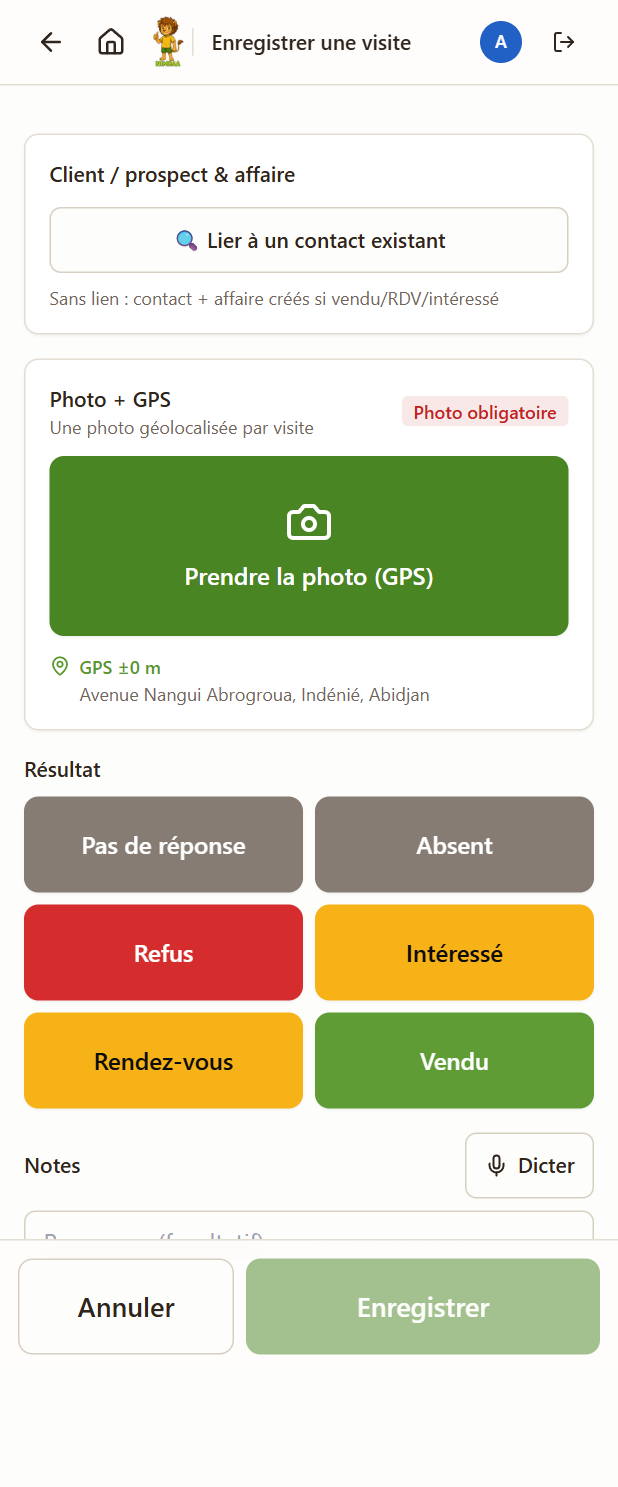
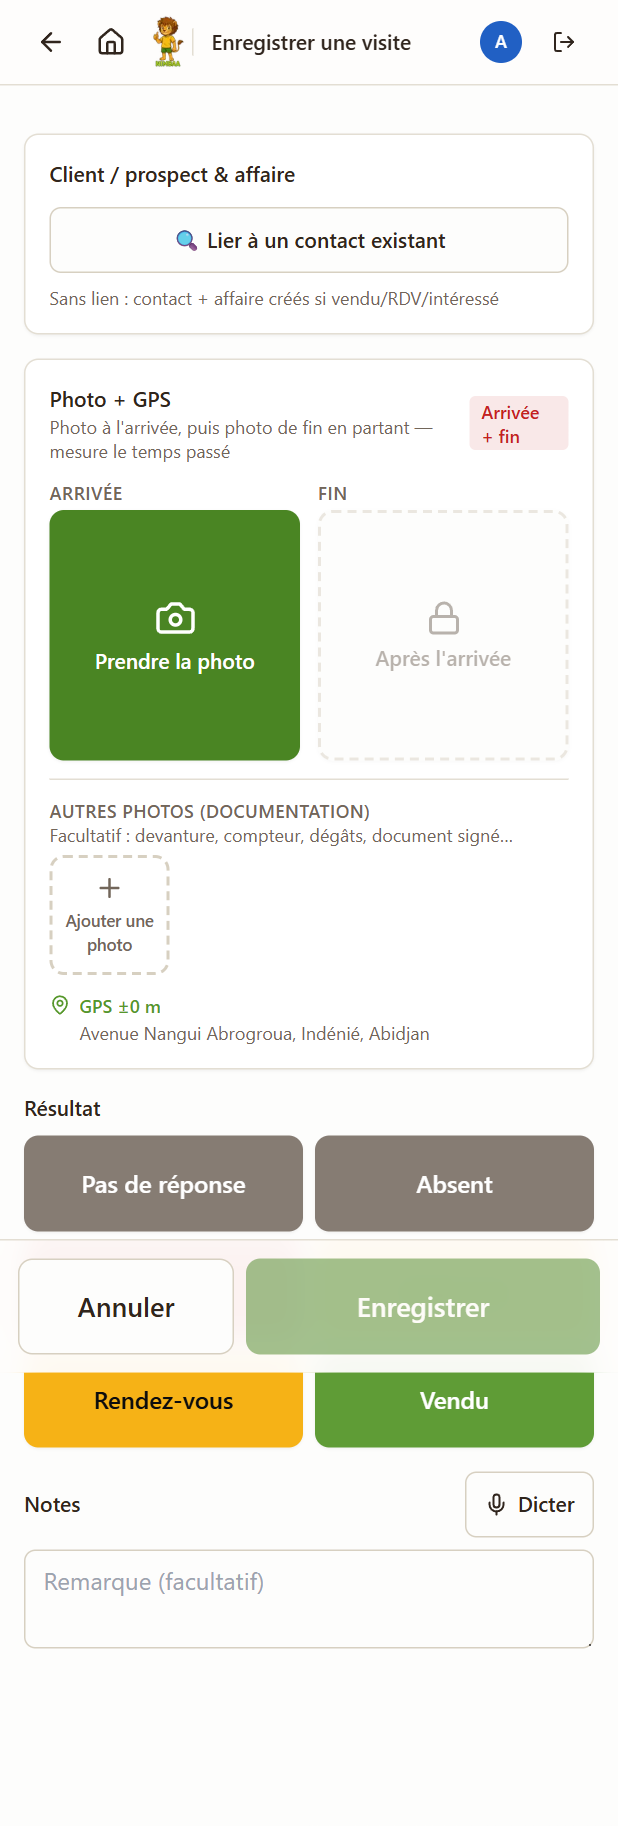
Manual: document the photo pair, time on site and anti-fraud controls
Section 4 now walks the visit through the three photo zones (arrival, end,
documentation), explains that the end slot stays locked until arrival exists
and that the pair is what measures time with the customer. Section 7 does
the same for installations, per site trip, and notes that the completion
date comes from the end photo. Section 11 gains a "Contrales anti-fraude"
part: the three duration averages, the per-person time table, and a table of
the six automatic checks with a caution to treat them as signals worth a
question rather than proof.

Screenshots of the visit and installation forms retaken; controls page shot
added.

diff --git a/public/manuel.html b/public/manuel.html
@@ -321,7 +321,7 @@
   <div class="kicker">Guide de l'équipe terrain · Abidjan</div>
   <h1>Manuel Nimbaa CRM</h1>
   <p class="sub">Comment utiliser l'application au quotidien : visites porte-à-porte, clients et affaires, installations, statistiques, assistant IA et commissions — pour les commerciaux, techniciens, managers et administrateurs.</p>
-  <p class="meta">Application : <code>nimbaa-crm.vercel.app</code> · Version du 17 août 2026 · Interface disponible en Français et Anglais</p>
+  <p class="meta">Application : <code>nimbaa-crm.vercel.app</code> · Version du 18 août 2026 · Interface disponible en Français et Anglais</p>
 
   <nav class="toc" aria-label="Sommaire">
     <a href="#demarrage"><span class="n">1</span>Démarrage &amp; connexion</a>
@@ -334,7 +334,7 @@
     <a href="#classement"><span class="n">8</span>Classement &amp; badges</a>
     <a href="#stats"><span class="n">9</span>Statistiques &amp; mes commissions</a>
     <a href="#assistant"><span class="n">10</span>Assistant Nimbaa (IA)</a>
-    <a href="#manager"><span class="n">11</span>Espace manager</a>
+    <a href="#manager"><span class="n">11</span>Espace manager &amp; contrôles</a>
     <a href="#commissions"><span class="n">12</span>Commissions : règles &amp; paiement</a>
     <a href="#admin"><span class="n">13</span>Administration</a>
     <a href="#horsligne"><span class="n">14</span>Mode hors ligne</a>
@@ -413,15 +413,31 @@
     <div class="roles"><span class="chip com">Commercial</span></div>
     <p>C'est le geste central du porte-à-porte. Depuis l'accueil, touchez <span class="btn-ref">Enregistrer une visite</span> :</p>
     <ol>
-      <li><strong>Photo + GPS.</strong> Touchez <span class="btn-ref">Prendre la photo (GPS)</span> — une photo géolocalisée est <strong>obligatoire</strong> pour chaque visite. L'adresse détectée s'affiche sous le bouton.</li>
+      <li><strong>Photo d'arrivée.</strong> En arrivant, touchez la case verte <span class="btn-ref">ARRIVÉE</span>. La photo est horodatée et géolocalisée automatiquement ; l'adresse détectée s'affiche plus bas.</li>
       <li><strong>Résultat.</strong> Choisissez l'issue de la visite : <em>Pas de réponse</em>, <em>Absent</em>, <em>Refus</em>, <em>Intéressé</em>, <em>Rendez-vous</em> ou <em>Vendu</em>.</li>
       <li><strong>Contact (optionnel).</strong> <span class="btn-ref">Lier à un contact existant</span> rattache la visite à une fiche déjà créée. Sans lien, si le résultat est <em>Vendu</em>, <em>Rendez-vous</em> ou <em>Intéressé</em>, l'application crée automatiquement le contact et l'affaire.</li>
       <li><strong>Notes.</strong> Tapez ou touchez <span class="btn-ref">🎤 Dicter</span> pour dicter vos notes à la voix.</li>
+      <li><strong>Photo de fin.</strong> Au moment de repartir, touchez la case orange <span class="btn-ref">FIN</span>. C'est elle qui referme la visite.</li>
       <li><span class="btn-ref">Enregistrer</span>.</li>
     </ol>
+
+    <h3>Les trois emplacements photo</h3>
+    <p>La carte <strong>Photo + GPS</strong> présente trois zones distinctes, pour que rien ne soit ambigu :</p>
+    <div class="tablewrap"><table>
+      <tr><th>Zone</th><th>Quand</th><th>Obligatoire ?</th></tr>
+      <tr><td><strong>ARRIVÉE</strong></td><td>En arrivant devant le client</td><td>Oui</td></tr>
+      <tr><td><strong>FIN</strong></td><td>Au moment de repartir</td><td>Oui</td></tr>
+      <tr><td><strong>Autres photos</strong></td><td>À tout moment — devanture, compteur, dégâts, document signé…</td><td>Non</td></tr>
+    </table></div>
+    <p>La case <strong>FIN</strong> reste <strong>verrouillée</strong> (cadenas) tant que la photo d'arrivée n'est pas prise : on ne peut pas repartir avant d'être arrivé. La pastille en haut à droite indique où vous en êtes : <em>Arrivée + fin</em> → <em>Photo de fin manquante</em> → <em>Complet</em>. Tant que la paire n'est pas complète, le bouton <span class="btn-ref">Enregistrer</span> reste inactif.</p>
+
+    <div class="callout tip">
+      <span class="lbl">Pourquoi deux photos</span>
+      <p>L'écart entre les deux photos mesure le <strong>temps réellement passé chez le client</strong>. C'est ce qui permet de valoriser le travail de terrain — et ce qui rend les chiffres incontestables. Une seule photo ne prouve qu'un instant ; la paire prouve une présence.</p>
+    </div>
     <div class="callout tip">
       <span class="lbl">Pas de réseau ? Continuez.</span>
-      <p>Sans connexion, la visite est <strong>mise en file d'attente sur le téléphone</strong> et envoyée automatiquement dès le retour du réseau. Voir la section 14.</p>
+      <p>Sans connexion, la visite (les deux photos comprises) est <strong>mise en file d'attente sur le téléphone</strong> et envoyée automatiquement dès le retour du réseau. Voir la section 14.</p>
     </div>
     <div class="callout warn">
       <span class="lbl">Portes à ne pas frapper</span>
@@ -429,8 +445,8 @@
     </div>
   </div>
   <figure class="phone">
-    <img src="/manuel/03-visit-new.png" alt="Formulaire de visite : photo GPS obligatoire, six boutons de résultat, notes avec dictée" />
-    <figcaption>La visite : photo géolocalisée, résultat en un geste, dictée des notes.</figcaption>
+    <img src="/manuel/03-visit-new.png" alt="Formulaire de visite : zones ARRIVÉE et FIN côte à côte, FIN verrouillée, zone Autres photos, boutons de résultat" />
+    <figcaption>Trois zones photo : <strong>Arrivée</strong> (verte, à prendre en premier), <strong>Fin</strong> (verrouillée jusque-là) et <strong>Autres photos</strong> pour la documentation.</figcaption>
   </figure>
 </section>
 
@@ -526,20 +542,22 @@
     <div class="roles"><span class="chip tec">Technicien</span><span class="chip man">Manager</span></div>
     <p>Quand une vente est conclue, une installation est planifiée chez le client. Le technicien utilise <span class="btn-ref">Enregistrer une installation</span> :</p>
     <ol>
-      <li>Choisir le <strong>client</strong> et l'affaire concernée.</li>
-      <li>Renseigner le statut : <em>planifiée</em>, <em>en cours</em>, <em>terminée</em> (ou <em>revisite</em> si un second passage est nécessaire).</li>
-      <li>Ajouter des <strong>photos</strong> de la pose et des notes (dictée vocale disponible).</li>
-      <li>Enregistrer — hors ligne si besoin, l'envoi se fera automatiquement.</li>
+      <li><strong>Photo d'arrivée</strong> en arrivant sur le chantier (case verte <span class="btn-ref">ARRIVÉE</span>).</li>
+      <li>Cocher les étapes du <strong>protocole</strong> au fur et à mesure et saisir le <strong>matériel posé</strong> avec ses numéros de série.</li>
+      <li>Photographier le travail dans <strong>Autres photos</strong> : matériel posé, câblage, anomalie — c'est votre dossier de preuve.</li>
+      <li>Renseigner le statut : <em>en cours</em>, <em>terminée</em>, ou <em>revisite</em> (avec la date du prochain passage).</li>
+      <li><strong>Photo de fin</strong> en quittant le chantier (case orange <span class="btn-ref">FIN</span>), puis <span class="btn-ref">Enregistrer</span> — hors ligne si besoin, l'envoi se fera automatiquement.</li>
     </ol>
+    <p>Comme pour les visites, la paire <strong>arrivée + fin</strong> est demandée à <strong>chaque passage</strong>, pas seulement au dernier : c'est ce qui mesure la durée réelle sur le chantier, passage par passage.</p>
     <div class="callout tip">
       <span class="lbl">Commission technicien</span>
-      <p>Marquer une installation <strong>terminée</strong> déclenche la commission du technicien (taux propre à chaque produit). Elle apparaît immédiatement dans « Mes commissions ».</p>
+      <p>Marquer une installation <strong>terminée</strong> déclenche la commission du technicien (taux propre à chaque produit). Elle apparaît immédiatement dans « Mes commissions ». La date de fin retenue est celle de la <strong>photo de fin</strong>.</p>
     </div>
     <p>Les managers suivent l'ensemble dans l'Espace manager : pipeline d'installations, photos à contrôler, taux de complétion par technicien.</p>
   </div>
   <figure class="phone">
-    <img src="/manuel/07-install-new.png" alt="Formulaire d'installation : choix du client, statut, photos et notes" />
-    <figcaption>Enregistrer une installation : client, statut, photos.</figcaption>
+    <img src="/manuel/07-install-new.png" alt="Formulaire d'installation : zones ARRIVÉE et FIN, autres photos pour le matériel posé, protocole et matériel" />
+    <figcaption>Le chantier : mêmes trois zones photo, protocole à cocher et matériel avec numéros de série.</figcaption>
   </figure>
 </section>
 
@@ -609,11 +627,12 @@
   <div class="txt">
     <h2>11 · Espace manager</h2>
     <div class="roles"><span class="chip man">Manager</span><span class="chip adm">Admin</span></div>
-    <p>Le tableau de bord d'équipe : activité du jour, chiffres par commercial et technicien, objectifs, montants en FCFA. De là, quatre outils :</p>
+    <p>Le tableau de bord d'équipe : activité du jour, chiffres par commercial et technicien, objectifs, montants en FCFA. De là, cinq outils :</p>
     <ul>
       <li><strong>Pipeline</strong> — toutes les affaires par étape, avec type d'activité et tags sur chaque carte, filtres et export CSV.</li>
       <li><strong>Audit photos</strong> — contrôle des photos de visites et d'installations.</li>
       <li><strong>Pipeline installations</strong> — suivi des poses en attente, en cours, terminées.</li>
+      <li><strong>Contrôles anti-fraude</strong> — temps passé et vérifications automatiques (ci-dessous).</li>
       <li><strong>Commissions</strong> — le panneau de paie (section 12).</li>
     </ul>
     <p>Les listes se filtrent par <strong>secteur</strong>, <strong>type d'activité</strong>, <strong>tag</strong> et <strong>personne</strong> — les mêmes filtres que sur les statistiques.</p>
@@ -621,6 +640,41 @@
   <figure class="phone">
     <img src="/manuel/11-dashboard.png" alt="Espace manager : chiffres d'équipe et accès au pipeline, à l'audit photos et aux commissions" />
     <figcaption>Espace manager : l'équipe en un coup d'œil.</figcaption>
+  </figure>
+</section>
+
+<!-- ---- 11b. Contrôles anti-fraude ---- -->
+<section class="screen sub" id="controles">
+  <div class="txt">
+    <h3>Contrôles anti-fraude &amp; temps passé</h3>
+    <p>Les photos d'arrivée et de fin ne servent pas qu'à prouver le passage : elles alimentent cette page, qui couvre les <strong>14 derniers jours</strong>.</p>
+
+    <h4>Le temps réellement passé chez le client</h4>
+    <ul>
+      <li>Trois moyennes en haut : <strong>par visite</strong>, <strong>par visite engagée</strong> (Intéressé / RDV / Vendu) et <strong>par passage sur chantier</strong>.</li>
+      <li>Un tableau <strong>par personne</strong> : nombre de visites, moyenne par visite, nombre de passages, moyenne par passage, et le <strong>total d'heures</strong> passées chez les clients.</li>
+    </ul>
+    <p>Ces durées se mesurent toujours entre la photo d'arrivée et la photo de fin — jamais entre la création et la clôture d'un chantier, qui peut rester ouvert plusieurs jours entre deux passages.</p>
+
+    <h4>Les vérifications automatiques</h4>
+    <div class="tablewrap"><table>
+      <tr><th>Contrôle</th><th>Ce qu'il signale</th></tr>
+      <tr><td><strong>Photos arrivée/fin éloignées</strong></td><td>Les deux photos ont été prises à plus de 150 m l'une de l'autre.</td></tr>
+      <tr><td><strong>Visites trop courtes</strong></td><td>Une visite engagée bouclée en moins de 3 minutes.</td></tr>
+      <tr><td><strong>Photo loin du client</strong></td><td>La photo est à plus de 250 m de l'adresse enregistrée du client.</td></tr>
+      <tr><td><strong>Décalage horloge</strong></td><td>Plus de 10 min d'écart entre l'heure du téléphone et l'arrivée au serveur.</td></tr>
+      <tr><td><strong>Photos réutilisées</strong></td><td>La même image (empreinte visuelle identique) apparaît sur plusieurs visites.</td></tr>
+      <tr><td><strong>Installations trop rapides</strong></td><td>Un chantier déclaré terminé en moins de 10 minutes.</td></tr>
+    </table></div>
+
+    <div class="callout warn">
+      <span class="lbl">À lire comme un signal, pas comme une preuve</span>
+      <p>Ces alertes méritent une <strong>question</strong>, pas une sanction automatique. Un décalage d'horloge vient souvent d'une visite enregistrée hors ligne et synchronisée plus tard ; une photo éloignée peut venir d'un GPS imprécis en centre-ville. Parlez-en à la personne avant de conclure.</p>
+    </div>
+  </div>
+  <figure class="phone">
+    <img src="/manuel/18-controls.png" alt="Page Contrôles anti-fraude : moyennes de durée, temps par personne et six compteurs de vérification à zéro" />
+    <figcaption>Contrôles anti-fraude : durées moyennes, temps par personne, et six vérifications automatiques.</figcaption>
   </figure>
 </section>
 
@@ -705,7 +759,7 @@
 </section>
 
 <footer>
-  <p><strong>Nimbaa CRM</strong> · Manuel d'utilisation · 17 août 2026. Captures d'écran réalisées sur l'application de production (données de démonstration). Pour toute question, utilisez l'Assistant Nimbaa ou contactez votre manager.</p>
+  <p><strong>Nimbaa CRM</strong> · Manuel d'utilisation · 18 août 2026. Captures d'écran réalisées sur l'application de production (données de démonstration). Pour toute question, utilisez l'Assistant Nimbaa ou contactez votre manager.</p>
 </footer>
 
 </div>
